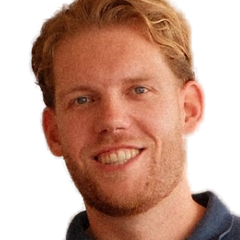
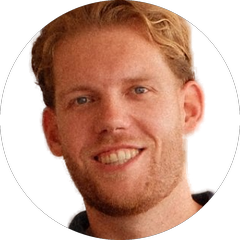
Ronde gezichtsfoto's met witte achtergrond
Claude-Session: https://claude.ai/code/session_01CxNm3TScYfzoPuYnLpJg8V

diff --git a/index.html b/index.html
@@ -2385,7 +2385,7 @@ a.hstat:hover .hs-lab{color:rgba(255,255,255,.8)}
 <div class="hb-grid"><div class="hb-left"><h1 class="hero-h">
 <span class="blue">Een remote setter</span> die afspraken in je agenda zet
       </h1>
-<a class="hb-mob" href="#hvVideo"><span class="hb-faces"><img src="/assets/img/face-anne-roos.png?v=2" width="160" height="160" alt="Anne-Roos"/><img src="/assets/img/face-demi.png?v=2" width="160" height="160" alt="Demi"/></span><span class="hb-hi">Check even de korte video hieronder</span><svg viewBox="0 0 40 46" width="26" height="30" fill="none" stroke="currentColor" stroke-width="2.6" stroke-linecap="round" stroke-linejoin="round" aria-hidden="true"><path d="M6 4c14 2 18 14 16 34"/><path d="M14 30l8 10 8-10"/></svg></a>
+<a class="hb-mob" href="#hvVideo"><span class="hb-faces"><img src="/assets/img/face-anne-roos.png?v=3" width="160" height="160" alt="Anne-Roos"/><img src="/assets/img/face-demi.png?v=3" width="160" height="160" alt="Demi"/></span><span class="hb-hi">Check even de korte video hieronder</span><svg viewBox="0 0 40 46" width="26" height="30" fill="none" stroke="currentColor" stroke-width="2.6" stroke-linecap="round" stroke-linejoin="round" aria-hidden="true"><path d="M6 4c14 2 18 14 16 34"/><path d="M14 30l8 10 8-10"/></svg></a>
 <div class="hcta">
 <a class="hcta-main" href="/book" target="_blank"><span>Plan je gratis matchgesprek</span><svg width="18" height="18" viewBox="0 0 24 24" fill="none" stroke="currentColor" stroke-width="2.4" stroke-linecap="round" stroke-linejoin="round" aria-hidden="true"><path d="M5 12h14M13 6l6 6-6 6"/></svg></a>
 </div>
@@ -2884,7 +2884,7 @@ if(document.readyState==='complete')begin();else window.addEventListener('load',
 <div class="p-volume-sub"><b>Commissie per geboekte afspraak</b> plus een kleine bemiddelingsfee</div>
 <div class="p-line"></div>
 <ul class="p-features">
-<li class="cm-li"><span class="cm-faces"><img src="/assets/img/face-anne-roos.png?v=2" width="44" height="44" alt="Anne-Roos"><img src="/assets/img/face-demi.png?v=2" width="44" height="44" alt="Demi"></span><span>Anne-Roos of Demi als vast aanspreekpunt</span></li>
+<li class="cm-li"><span class="cm-faces"><img src="/assets/img/face-anne-roos.png?v=3" width="44" height="44" alt="Anne-Roos"><img src="/assets/img/face-demi.png?v=3" width="44" height="44" alt="Demi"></span><span>Anne-Roos of Demi als vast aanspreekpunt</span></li>
 <li>Setter ontvangt commissie per geboekte afspraak</li>
 <li>Geen vaste lasten, schaalbaar op volume</li>
 <li>Contract en uitbetaling via het platform</li>
@@ -2901,7 +2901,7 @@ if(document.readyState==='complete')begin();else window.addEventListener('load',
 <div class="p-volume-sub"><b>Voorbeeld:</b> setter verdient €30 per uur, jij betaalt €37,50</div>
 <div class="p-line"></div>
 <ul class="p-features">
-<li class="cm-li"><span class="cm-faces"><img src="/assets/img/face-anne-roos.png?v=2" width="44" height="44" alt="Anne-Roos"><img src="/assets/img/face-demi.png?v=2" width="44" height="44" alt="Demi"></span><span>Anne-Roos of Demi als vast aanspreekpunt</span></li>
+<li class="cm-li"><span class="cm-faces"><img src="/assets/img/face-anne-roos.png?v=3" width="44" height="44" alt="Anne-Roos"><img src="/assets/img/face-demi.png?v=3" width="44" height="44" alt="Demi"></span><span>Anne-Roos of Demi als vast aanspreekpunt</span></li>
 <li class="p-gar">Binnen 14 dagen actief, anders betaal je niets</li>
 <li>Fulltime of parttime, per maand op- en afschalen</li>
 <li>Wisselen van setter kan altijd</li>
@@ -2917,7 +2917,7 @@ if(document.readyState==='complete')begin();else window.addEventListener('load',
 <div class="p-volume-sub"><b>Vaste vergoeding per setter</b>, alles via het platform</div>
 <div class="p-line"></div>
 <ul class="p-features">
-<li class="cm-li"><span class="cm-faces"><img src="/assets/img/face-anne-roos.png?v=2" width="44" height="44" alt="Anne-Roos"><img src="/assets/img/face-demi.png?v=2" width="44" height="44" alt="Demi"></span><span>Anne-Roos of Demi als vast aanspreekpunt</span></li>
+<li class="cm-li"><span class="cm-faces"><img src="/assets/img/face-anne-roos.png?v=3" width="44" height="44" alt="Anne-Roos"><img src="/assets/img/face-demi.png?v=3" width="44" height="44" alt="Demi"></span><span>Anne-Roos of Demi als vast aanspreekpunt</span></li>
 <li>Contract, betaling en communicatie op een plek</li>
 <li>Opschalen met extra seats</li>
 <li>Uit te breiden met closers</li>
@@ -3068,7 +3068,7 @@ if(document.readyState==='complete')begin();else window.addEventListener('load',
   </div>
   <div class="cmp-foot">
     <p>Weet je zeker dat het volume er over een jaar nog is? Dan is een eigen SDR soms beter. Dat zeggen we je ook. <a href="/kennis/remote-setter-vs-sdr">Lees de volledige afweging</a>.</p>
-    <div class="who-wrap"><a class="btn-solid" href="/book" target="_blank" style="white-space:nowrap;">Plan je gratis matchgesprek</a><p class="who-l who-c"><span class="cm-faces"><img src="/assets/img/face-anne-roos.png?v=2" width="44" height="44" alt="Anne-Roos"><img src="/assets/img/face-demi.png?v=2" width="44" height="44" alt="Demi"></span><span>Je spreekt Anne-Roos of Demi</span></p></div>
+    <div class="who-wrap"><a class="btn-solid" href="/book" target="_blank" style="white-space:nowrap;">Plan je gratis matchgesprek</a><p class="who-l who-c"><span class="cm-faces"><img src="/assets/img/face-anne-roos.png?v=3" width="44" height="44" alt="Anne-Roos"><img src="/assets/img/face-demi.png?v=3" width="44" height="44" alt="Demi"></span><span>Je spreekt Anne-Roos of Demi</span></p></div>
   </div>
   </div>
   <a class="rv-mini reveal rv-wide" href="#reviews" aria-label="Review van Arnold, 5 sterren, lees alle reviews">
@@ -3279,7 +3279,7 @@ if(document.readyState==='complete')begin();else window.addEventListener('load',
 <a class="btn-solid" href="/book" style="display:inline-flex;" target="_blank">Plan je gratis matchgesprek</a>
 <a class="btn-ghost-l2l" href="https://app.link2talent.nl" rel="noopener" target="_blank">Maak een account aan</a>
 </div>
-<p class="who-l who-c reveal"><span class="cm-faces"><img src="/assets/img/face-anne-roos.png?v=2" width="44" height="44" alt="Anne-Roos"><img src="/assets/img/face-demi.png?v=2" width="44" height="44" alt="Demi"></span><span>Je spreekt Anne-Roos of Demi</span></p>
+<p class="who-l who-c reveal"><span class="cm-faces"><img src="/assets/img/face-anne-roos.png?v=3" width="44" height="44" alt="Anne-Roos"><img src="/assets/img/face-demi.png?v=3" width="44" height="44" alt="Demi"></span><span>Je spreekt Anne-Roos of Demi</span></p>
 <p class="reveal" style="text-align:center;margin-top:18px;font-size:14px;color:var(--muted);">
     Meer uitzoeken? In de <a href="/kennis" style="color:var(--accent2);text-decoration:underline;text-underline-offset:3px;">kennisbank</a> staan de afwegingen over rollen, modellen en kosten.
   </p>

diff --git a/klant.html b/klant.html
@@ -171,7 +171,7 @@ textarea.q-input{min-height:100px;}
     <div class="welcome-chip">Onboarding</div>
     <h1 class="welcome-title">Welkom bij Link<span>2</span>Talent</h1>
     <p class="welcome-sub">Vul hieronder de 15 vragen in. Hoe concreter je antwoordt, hoe beter we de juiste setter aan je koppelen en hoe sneller die productief is. Duurt ongeveer 10 minuten.</p>
-    <p class="who-l" style="margin:-22px 0 30px"><span class="cm-faces"><img src="/assets/img/face-anne-roos.png?v=2" width="44" height="44" alt="Anne-Roos"><img src="/assets/img/face-demi.png?v=2" width="44" height="44" alt="Demi"></span><span>Anne-Roos en Demi lezen je antwoorden zelf</span></p>
+    <p class="who-l" style="margin:-22px 0 30px"><span class="cm-faces"><img src="/assets/img/face-anne-roos.png?v=3" width="44" height="44" alt="Anne-Roos"><img src="/assets/img/face-demi.png?v=3" width="44" height="44" alt="Demi"></span><span>Anne-Roos en Demi lezen je antwoorden zelf</span></p>
 
     <div class="timeline">
       <div class="tl-item">
@@ -209,7 +209,7 @@ textarea.q-input{min-height:100px;}
       Werving, selectie, training, aansturing en vervanging bij uitval. Alles. Jij hoeft alleen deze vragenlijst in te vullen en de setter akkoord te geven.
     </div>
     <button class="btn-start" onclick="goTo(1)">Vragenlijst invullen →</button>
-    <p class="who-l who-c"><span class="cm-faces"><img src="/assets/img/face-anne-roos.png?v=2" width="44" height="44" alt="Anne-Roos"><img src="/assets/img/face-demi.png?v=2" width="44" height="44" alt="Demi"></span><span>Je antwoorden komen direct bij Anne-Roos en Demi binnen</span></p>
+    <p class="who-l who-c"><span class="cm-faces"><img src="/assets/img/face-anne-roos.png?v=3" width="44" height="44" alt="Anne-Roos"><img src="/assets/img/face-demi.png?v=3" width="44" height="44" alt="Demi"></span><span>Je antwoorden komen direct bij Anne-Roos en Demi binnen</span></p>
   </div>
 
   <!-- PANELS 1–15: VRAGEN -->
@@ -414,7 +414,7 @@ textarea.q-input{min-height:100px;}
       <button class="btn btn-ghost" onclick="goTo(15)">← Terug</button>
       <button class="btn btn-primary" id="submit-btn" onclick="submit()">Versturen ✓</button>
     </div>
-    <p class="who-l who-c"><span class="cm-faces"><img src="/assets/img/face-anne-roos.png?v=2" width="44" height="44" alt="Anne-Roos"><img src="/assets/img/face-demi.png?v=2" width="44" height="44" alt="Demi"></span><span>Je antwoorden komen direct bij Anne-Roos en Demi binnen</span></p>
+    <p class="who-l who-c"><span class="cm-faces"><img src="/assets/img/face-anne-roos.png?v=3" width="44" height="44" alt="Anne-Roos"><img src="/assets/img/face-demi.png?v=3" width="44" height="44" alt="Demi"></span><span>Je antwoorden komen direct bij Anne-Roos en Demi binnen</span></p>
   </div>
 
   <!-- PANEL 17: SUCCESS -->

diff --git a/book.html b/book.html
@@ -692,7 +692,7 @@ nav {
     <div class="chip">Matchgesprek</div>
     <h1>Plan je gratis matchgesprek met Link<span class="dot" style="color:#2F6FED">2</span>Talent</h1>
     <p>We bespreken jullie salesinrichting, doelen en welk commercieel profiel daar het meeste impact maakt. We plaatsten al 100+ setters, dus je krijgt een eerlijk advies op basis van wat werkt.</p>
-    <p class="who-l" style="margin:0 0 20px"><span class="cm-faces"><img src="/assets/img/face-anne-roos.png?v=2" width="44" height="44" alt="Anne-Roos"><img src="/assets/img/face-demi.png?v=2" width="44" height="44" alt="Demi"></span><span>Je spreekt Anne-Roos of Demi, geen accountmanager</span></p>
+    <p class="who-l" style="margin:0 0 20px"><span class="cm-faces"><img src="/assets/img/face-anne-roos.png?v=3" width="44" height="44" alt="Anne-Roos"><img src="/assets/img/face-demi.png?v=3" width="44" height="44" alt="Demi"></span><span>Je spreekt Anne-Roos of Demi, geen accountmanager</span></p>
     <div class="meta-cards">
       <div class="meta-card">
         <div class="meta-card-icon"><svg width="16" height="16" viewBox="0 0 24 24" fill="none" stroke="#5B8FF5" stroke-width="2" stroke-linecap="round"><circle cx="12" cy="12" r="9"/><path d="M12 7v5l3 3"/></svg></div>
